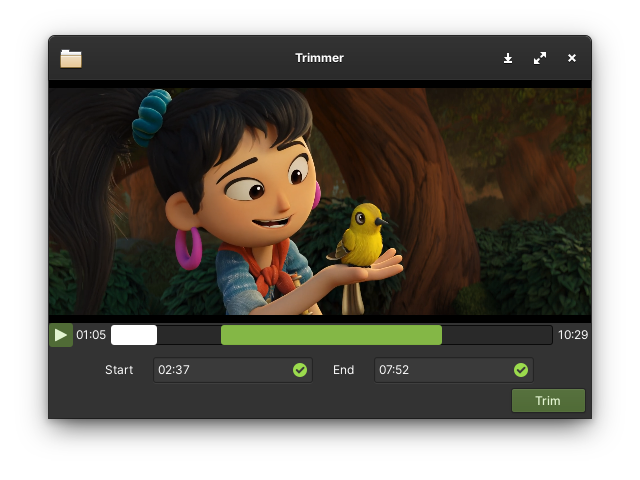
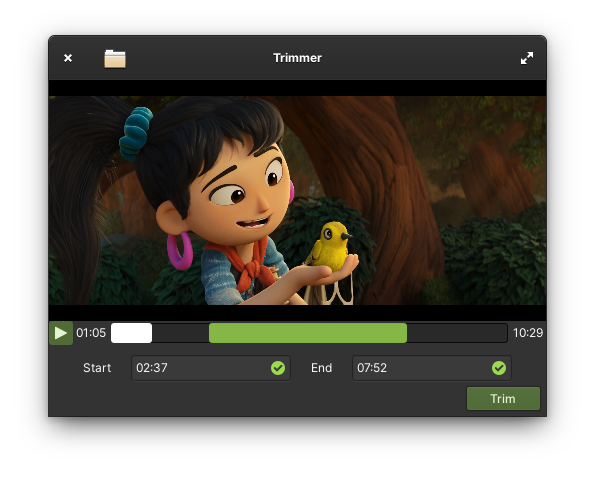
Modifies readme
-Updates screenshots with native decorations
-Fixes formatting errors

diff --git a/README.md b/README.md
@@ -1,8 +1,8 @@
 # trimmer
-**trimmer is still a work in progress**
 A video trimming utility designed for elementary OS.
 
-**tentative screenshots for in-progress UI**
+**trimmer is still a work in progress**
+
 ![Welcome screen screenshot](data/screenshot-welcome.png)
 ![Trimming screen screenshot](data/screenshot-trim.png)
 
